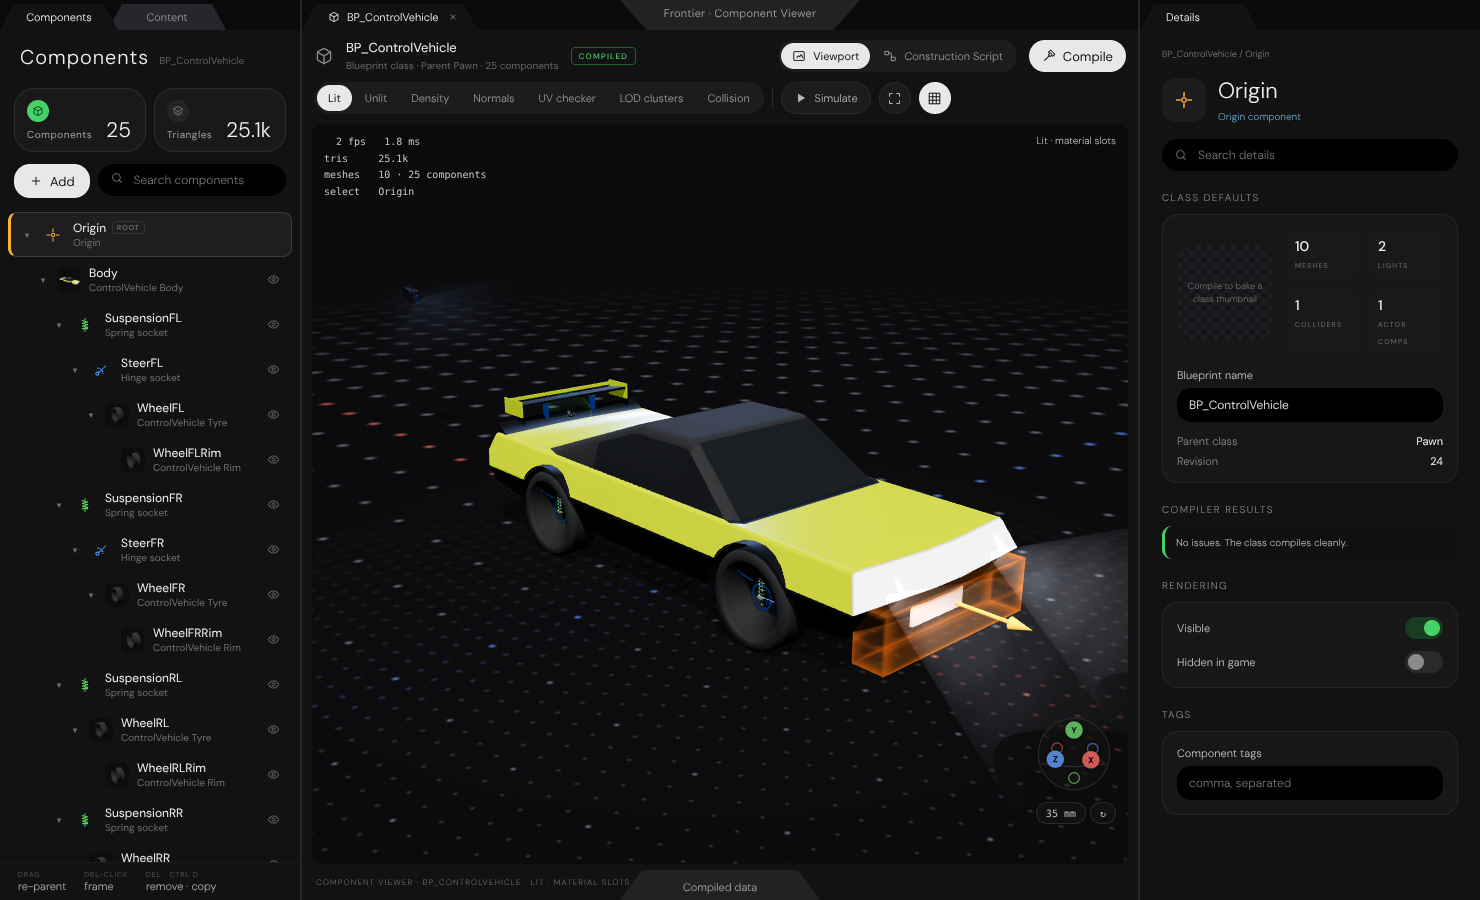
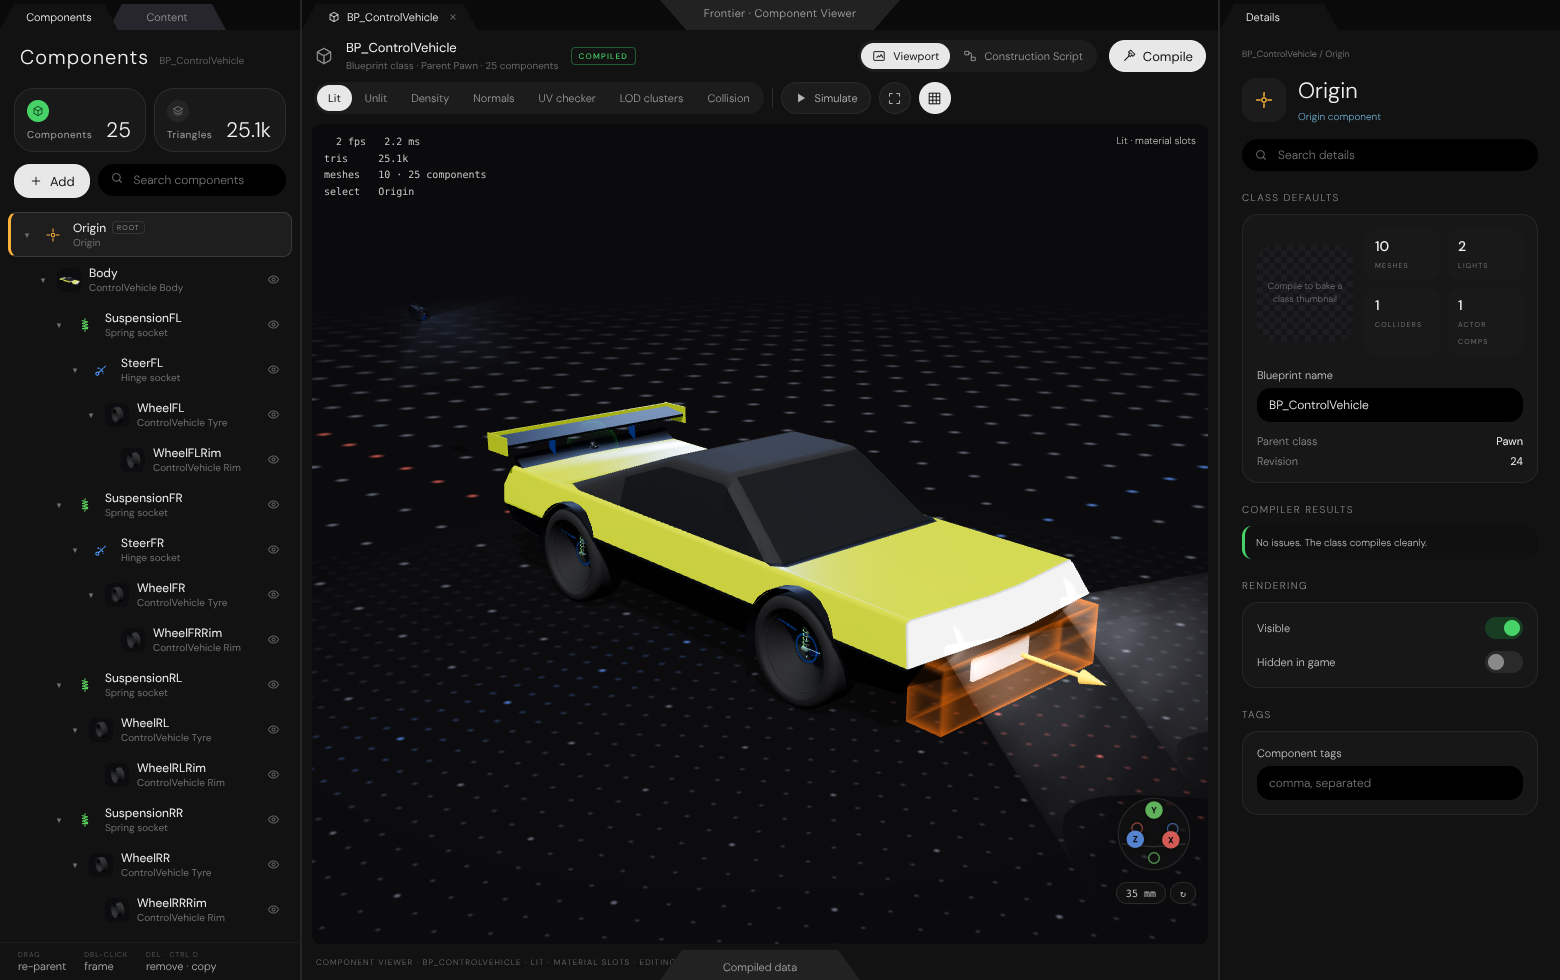
Rear wing: downforce angle, full body width

diff --git a/Experimental/ComponentViewer/Main.js b/Experimental/ComponentViewer/Main.js
@@ -114,8 +114,12 @@ const VEHICLE_PARTS = [
   { key: 'wing', build: buildWing, name: 'Rear Wing', tags: 'vehicle, wing, aero', collision: 'box', normals: 'angle' },
 ];
 
-// A small rear wing built from boxes (Y-up, metres, origin at the mounting point): carbon main plane at 8° with a
-// gurney flap, body-colour endplates and blue pylons, using the Vehicle Lab material families.
+// A rear wing built from boxes (Y-up, metres, origin at the mounting point; +X is the car's forward direction): carbon
+// main plane with a gurney flap, body-colour endplates and blue pylons, using the Vehicle Lab material families.
+//   Angle: 8° angle of attack for downforce — the leading edge (front, +X) sits LOW and the trailing edge (rear, −X)
+//   HIGH, and the gurney flap stands up off the trailing edge.  (It was tilted the other way, which is a lift wing.)
+//   Span: endplate outer faces line up with the body's sides (ControlVehicleBody is 2.4996 m wide, ±1.2498 m).
+const WING = { aoa: 8, bodyHalfWidth: 1.2498, chordHalf: 0.17, planeHalfThick: 0.016, plateHalfThick: 0.008, planeY: 0.25 };
 function buildWing() {
   const pos = [], idx = [], fam = [];
   const box = (c, h, family, tilt = 0) => {
@@ -127,10 +131,17 @@ function buildWing() {
     const quads = [[0, 2, 3, 1], [4, 5, 7, 6], [0, 1, 5, 4], [2, 6, 7, 3], [0, 4, 6, 2], [1, 3, 7, 5]];
     for (const [a, b, c2, d] of quads) { idx.push(base + a, base + b, base + c2, base + a, base + c2, base + d); fam.push(family, family); }
   };
-  box([0, 0.25, 0], [0.17, 0.016, 0.8], 8, 8 * Math.PI / 180);
-  box([-0.165, 0.29, 0], [0.008, 0.022, 0.8], 6);
-  for (const z of [-0.81, 0.81]) box([-0.01, 0.23, z], [0.2, 0.1, 0.008], 6);
-  for (const z of [-0.36, 0.36]) box([0.02, 0.11, z], [0.05, 0.11, 0.01], 10);
+  const { aoa, bodyHalfWidth, chordHalf, planeHalfThick, plateHalfThick, planeY } = WING;
+  const tilt = -aoa * Math.PI / 180;                       // negative about Z: front edge down, rear edge up
+  const plateZ = bodyHalfWidth - plateHalfThick;            // endplate centres, outer faces flush with the body sides
+  const span = plateZ - plateHalfThick;                     // main plane meets the endplates' inner faces
+  box([0, planeY, 0], [chordHalf, planeHalfThick, span], 8, tilt);
+  // Gurney flap: a 44 mm lip standing on the trailing edge's top surface, square to the plane.
+  const te = [-chordHalf * Math.cos(tilt) - planeHalfThick * Math.sin(tilt), planeY - chordHalf * Math.sin(tilt) + planeHalfThick * Math.cos(tilt)];
+  box([te[0] + 0.008 * Math.cos(tilt) - 0.022 * Math.sin(tilt), te[1] + 0.008 * Math.sin(tilt) + 0.022 * Math.cos(tilt), 0], [0.008, 0.022, span], 6, tilt);
+  for (const z of [-plateZ, plateZ]) box([-0.01, 0.23, z], [0.2, 0.1, plateHalfThick], 6);
+  // Pylons spread with the wider span (about 45 % out from the centre line), so the plane is not cantilevered too far.
+  for (const z of [-0.56, 0.56]) box([0.02, 0.11, z], [0.05, 0.11, 0.01], 10);
   return { positions: new Float32Array(pos), indices: new Uint32Array(idx), families: new Uint32Array(fam), format: 'Procedural', notes: ['Rear wing built in Main.js for the Dock socket demo'] };
 }
 
